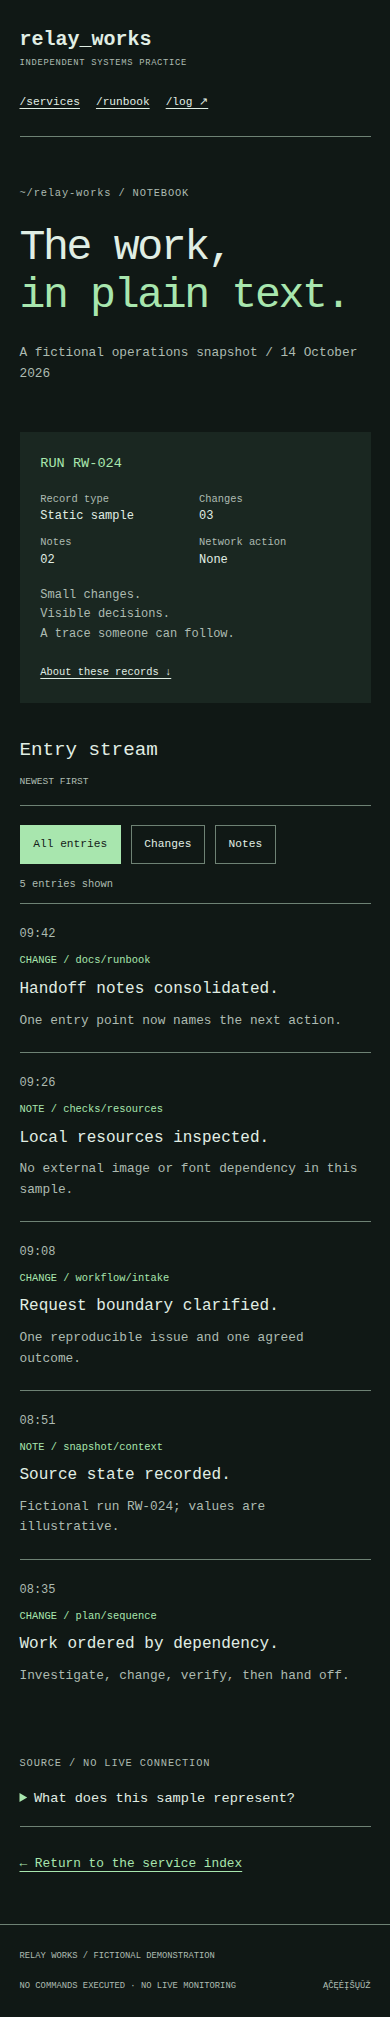
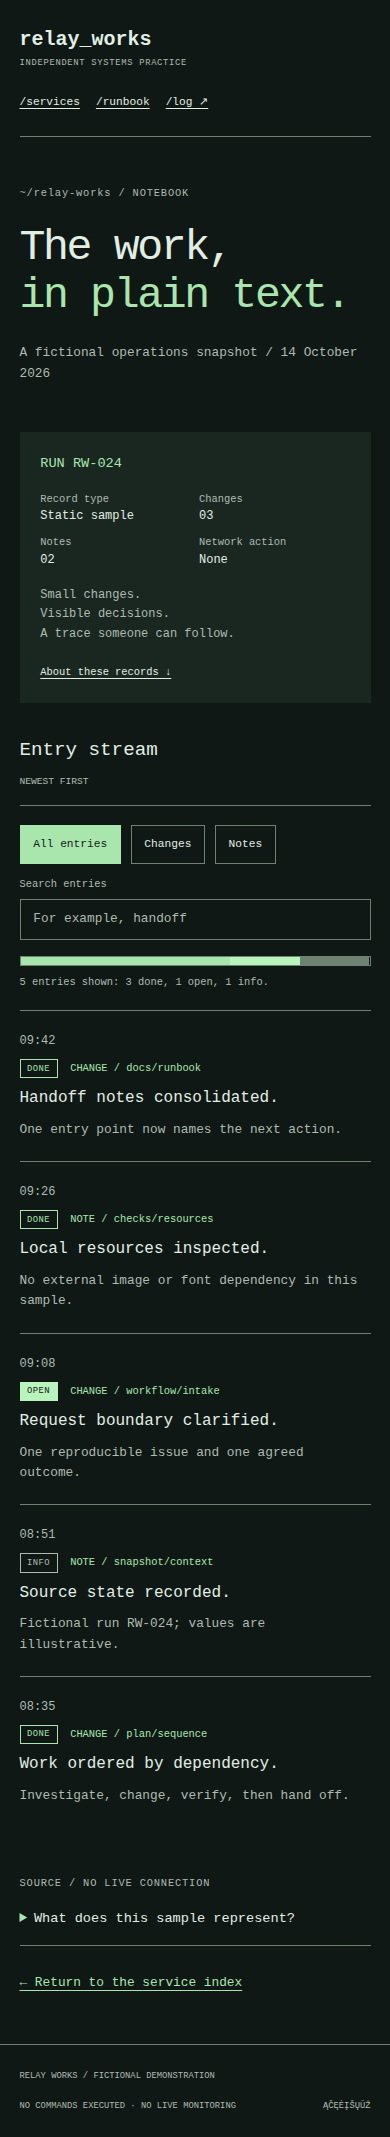
[S46] Pertvarka: Terminal Utility (#93)
* feat(S46): local log search, statuses and status bar for terminal-utility

Claude-Session: https://claude.ai/code/session_01UNVqEgRscSKB9PdVUupPsp

* chore: regenerate canonical previews for terminal-utility

* fix(S46): readable OPEN status label on focus background

Claude-Session: https://claude.ai/code/session_01UNVqEgRscSKB9PdVUupPsp

* chore: regenerate canonical previews for terminal-utility

* docs(S46): evidence for terminal-utility redesign

Claude-Session: https://claude.ai/code/session_01UNVqEgRscSKB9PdVUupPsp

---------

diff --git a/styles/terminal-utility/reference/style.css b/styles/terminal-utility/reference/style.css
@@ -1,1 +1,1 @@
-*{box-sizing:border-box}html{scroll-behavior:smooth}body{margin:0;background:var(--color-background);color:var(--color-text);font:1rem/1.6 var(--font-body)}a{color:inherit;text-underline-offset:.3em;transition:color var(--motion-duration-short) var(--motion-easing-standard)}a:hover{color:var(--color-accent)}:focus-visible{outline:3px solid var(--color-focus);outline-offset:5px}.skip{position:absolute;top:0;left:0;transform:translateY(-200%);background:var(--color-background);padding:1rem;z-index:10}.skip:focus{transform:none}h1,h2,h3,p{margin:0}h1{font-size:clamp(2.5rem,4.8vw,4.5rem);line-height:1.12;letter-spacing:-.055em;font-weight:400}h1 span{color:var(--color-accent)}h2{font-size:1.2rem;font-weight:400}h3{font-size:1rem;font-weight:400}.mast{max-width:1200px;padding:2rem 2rem 1.5rem;margin:auto;display:flex;justify-content:space-between;gap:2rem;border-bottom:1px solid var(--color-border)}.brand{font-weight:700;text-decoration:none;font-size:1.25rem}.brand span{display:block;font-size:.55rem;letter-spacing:.08em;font-weight:400;color:var(--color-muted)}nav{display:flex;gap:1.5rem;font-size:.75rem;align-items:center}main{max-width:1136px;margin:auto}.intro{padding:4rem 0 3rem}.label{font-size:.65rem;letter-spacing:.08em;color:var(--color-muted)}.intro h1{margin:1.5rem 0}.lead{color:var(--color-muted)}.output{border-left:3px solid var(--color-accent);padding:1.3rem 1.5rem;margin-top:2rem;background:var(--color-surface);max-width:760px;font-size:.85rem}.output>span{color:var(--color-accent)}.output p{margin:.6rem 0}.output small{font-size:.65rem;color:var(--color-muted)}.section-head{display:flex;justify-content:space-between;gap:1rem;padding:1rem 0;border-bottom:1px solid var(--color-border);align-items:baseline}.section-head>span{font-size:.6rem;color:var(--color-muted)}details{border-bottom:1px solid var(--color-border)}summary{cursor:pointer}summary::marker{color:var(--color-accent)}.commands summary{padding:1.2rem .5rem;display:grid;grid-template-columns:1fr 1.5fr auto;gap:1.5rem;font-size:.9rem}.commands summary strong{font-weight:400;color:var(--color-accent)}.commands summary>span{color:var(--color-muted)}summary b{font-weight:400}.command-body{padding:0 2rem 1.5rem;font-size:.85rem;max-width:800px}.command-body p{margin:.6rem 0}.command-body p>span{display:inline-block;width:5rem;color:var(--color-accent);font-size:.7rem}.note{color:var(--color-muted);font-size:.75rem}.runbook{padding:3rem 0}.runbook>h2{font-size:1.8rem;margin:1rem 0 2rem}.runbook ol{padding:0;margin:0;list-style:none;display:grid;grid-template-columns:repeat(3,1fr);gap:2rem}.runbook li{border-top:1px solid var(--color-border);padding-top:1rem}.runbook li>span{color:var(--color-accent);font-size:.75rem}.runbook h3{margin:.8rem 0}.runbook li>p{color:var(--color-muted);font-size:.8rem;max-width:30ch}.boundary{padding:2.5rem 0 3rem;border-top:1px solid var(--color-border);display:grid;grid-template-columns:1fr 2fr;gap:2rem}.boundary h2{font-size:2rem;line-height:1.25}.boundary div>p{margin:1.2rem 0;color:var(--color-muted);max-width:58ch;font-size:.85rem}.boundary a{font-size:.8rem;color:var(--color-accent)}footer{border-top:1px solid var(--color-border);padding:1.5rem 3vw;display:flex;justify-content:space-between;gap:1rem;flex-wrap:wrap;font-size:.55rem;color:var(--color-muted)}.log-title{padding:3rem 0}.log-title h1{margin:1.4rem 0}.log-title>p:last-child{font-size:.8rem;color:var(--color-muted)}.log-layout{display:grid;grid-template-columns:240px 1fr;gap:3rem}.log-layout aside{background:var(--color-surface);padding:1.3rem;height:max-content;font-size:.75rem}.log-layout aside h2{font-size:.85rem;color:var(--color-accent)}dl{margin:1.5rem 0}dl>div{margin:.8rem 0}dt{color:var(--color-muted);font-size:.65rem}dd{margin:0}.log-layout aside>p{margin-bottom:1.2rem;color:var(--color-muted)}.log-layout aside a{font-size:.65rem}.log .section-head{padding-top:0}.filters{display:flex;gap:.6rem;flex-wrap:wrap;margin:1.2rem 0 .7rem}button{font:inherit;font-size:.7rem;color:var(--color-text);background:var(--color-background);border:1px solid var(--color-border);padding:.6rem .8rem;cursor:pointer;transition:color var(--motion-duration-short) var(--motion-easing-standard)}button[aria-pressed=true]{color:var(--color-on-accent);background:var(--color-accent);border-color:var(--color-accent)}#entry-count{font-size:.65rem;color:var(--color-muted);margin-bottom:.7rem}.event{display:grid;grid-template-columns:4rem 1fr;gap:1.5rem;padding:1.3rem 0;border-top:1px solid var(--color-border)}.event[hidden]{display:none}.event time{color:var(--color-muted);font-size:.75rem}.event-kind{font-size:.65rem;color:var(--color-accent);overflow-wrap:anywhere}.event h3{margin:.5rem 0}.event div>p:last-child{font-size:.8rem;color:var(--color-muted)}.data-note{margin:3rem 0}.data-note details{margin:1rem 0 1.5rem;padding-bottom:1rem;font-size:.85rem}.data-note details p{color:var(--color-muted);max-width:70ch;margin-top:1rem}.data-note>a{font-size:.8rem;color:var(--color-accent)}@media(max-width:1200px){main{margin:0 5vw}.mast{margin:0 5vw;padding-left:0;padding-right:0}}@media(max-width:800px){.log-layout{grid-template-columns:190px 1fr;gap:2rem}.event{gap:1rem}.runbook ol{gap:1rem}.commands summary{grid-template-columns:1fr 1fr auto;gap:1rem}}@media(max-width:600px){.mast{display:block;padding-top:1.5rem}nav{margin-top:1.5rem;gap:1rem;flex-wrap:wrap;font-size:.7rem}.intro{padding-top:3rem}h1{font-size:2.8rem}.intro .lead{font-size:.85rem}.lead br{display:none}.section-head{display:block}.section-head>span{display:block;margin-top:.5rem}.commands summary{grid-template-columns:1fr auto;padding:1rem 0;gap:.5rem}.commands summary>span{grid-row:2;grid-column:1/-1;font-size:.8rem}.commands summary b{grid-column:2;grid-row:1}.command-body{padding:0 0 1rem;font-size:.8rem}.command-body p>span{display:block}.runbook ol{display:block}.runbook li{margin-top:1.5rem}.runbook li>p{max-width:none}.boundary{display:block}.boundary h2{margin-top:1.5rem;font-size:1.8rem}.log-layout{display:block}.log-layout aside{margin-bottom:2rem}.log-layout dl{display:grid;grid-template-columns:1fr 1fr;gap:.5rem;margin:1rem 0}.log-layout dl>div{margin:0}.log-title h1{font-size:2.7rem}.event{display:block}.event time{display:block;margin-bottom:.5rem}.log .section-head{padding-top:0}.event h3{font-size:1rem}footer{padding:1.5rem 5vw}}@media(prefers-reduced-motion:reduce){html{scroll-behavior:auto}*,*::before,*::after{transition:none!important;animation:none!important}}
+*{box-sizing:border-box}html{scroll-behavior:smooth}body{margin:0;background:var(--color-background);color:var(--color-text);font:1rem/1.6 var(--font-body)}a{color:inherit;text-underline-offset:.3em;transition:color var(--motion-duration-short) var(--motion-easing-standard)}a:hover{color:var(--color-accent)}:focus-visible{outline:3px solid var(--color-focus);outline-offset:5px}.skip{position:absolute;top:0;left:0;transform:translateY(-200%);background:var(--color-background);padding:1rem;z-index:10}.skip:focus{transform:none}h1,h2,h3,p{margin:0}h1{font-size:clamp(2.5rem,4.8vw,4.5rem);line-height:1.12;letter-spacing:-.055em;font-weight:400}h1 span{color:var(--color-accent)}h2{font-size:1.2rem;font-weight:400}h3{font-size:1rem;font-weight:400}.mast{max-width:1200px;padding:2rem 2rem 1.5rem;margin:auto;display:flex;justify-content:space-between;gap:2rem;border-bottom:1px solid var(--color-border)}.brand{font-weight:700;text-decoration:none;font-size:1.25rem}.brand span{display:block;font-size:.55rem;letter-spacing:.08em;font-weight:400;color:var(--color-muted)}nav{display:flex;gap:1.5rem;font-size:.75rem;align-items:center}main{max-width:1136px;margin:auto}.intro{padding:4rem 0 3rem}.label{font-size:.65rem;letter-spacing:.08em;color:var(--color-muted)}.intro h1{margin:1.5rem 0}.lead{color:var(--color-muted)}.output{border-left:3px solid var(--color-accent);padding:1.3rem 1.5rem;margin-top:2rem;background:var(--color-surface);max-width:760px;font-size:.85rem}.output>span{color:var(--color-accent)}.output p{margin:.6rem 0}.output small{font-size:.65rem;color:var(--color-muted)}.section-head{display:flex;justify-content:space-between;gap:1rem;padding:1rem 0;border-bottom:1px solid var(--color-border);align-items:baseline}.section-head>span{font-size:.6rem;color:var(--color-muted)}details{border-bottom:1px solid var(--color-border)}summary{cursor:pointer}summary::marker{color:var(--color-accent)}.commands summary{padding:1.2rem .5rem;display:grid;grid-template-columns:1fr 1.5fr auto;gap:1.5rem;font-size:.9rem}.commands summary strong{font-weight:400;color:var(--color-accent)}.commands summary>span{color:var(--color-muted)}summary b{font-weight:400}.command-body{padding:0 2rem 1.5rem;font-size:.85rem;max-width:800px}.command-body p{margin:.6rem 0}.command-body p>span{display:inline-block;width:5rem;color:var(--color-accent);font-size:.7rem}.note{color:var(--color-muted);font-size:.75rem}.runbook{padding:3rem 0}.runbook>h2{font-size:1.8rem;margin:1rem 0 2rem}.runbook ol{padding:0;margin:0;list-style:none;display:grid;grid-template-columns:repeat(3,1fr);gap:2rem}.runbook li{border-top:1px solid var(--color-border);padding-top:1rem}.runbook li>span{color:var(--color-accent);font-size:.75rem}.runbook h3{margin:.8rem 0}.runbook li>p{color:var(--color-muted);font-size:.8rem;max-width:30ch}.boundary{padding:2.5rem 0 3rem;border-top:1px solid var(--color-border);display:grid;grid-template-columns:1fr 2fr;gap:2rem}.boundary h2{font-size:2rem;line-height:1.25}.boundary div>p{margin:1.2rem 0;color:var(--color-muted);max-width:58ch;font-size:.85rem}.boundary a{font-size:.8rem;color:var(--color-accent)}footer{border-top:1px solid var(--color-border);padding:1.5rem 3vw;display:flex;justify-content:space-between;gap:1rem;flex-wrap:wrap;font-size:.55rem;color:var(--color-muted)}.log-title{padding:3rem 0}.log-title h1{margin:1.4rem 0}.log-title>p:last-child{font-size:.8rem;color:var(--color-muted)}.log-layout{display:grid;grid-template-columns:240px 1fr;gap:3rem}.log-layout aside{background:var(--color-surface);padding:1.3rem;height:max-content;font-size:.75rem}.log-layout aside h2{font-size:.85rem;color:var(--color-accent)}dl{margin:1.5rem 0}dl>div{margin:.8rem 0}dt{color:var(--color-muted);font-size:.65rem}dd{margin:0}.log-layout aside>p{margin-bottom:1.2rem;color:var(--color-muted)}.log-layout aside a{font-size:.65rem}.log .section-head{padding-top:0}.filters{display:flex;gap:.6rem;flex-wrap:wrap;margin:1.2rem 0 .7rem}button{font:inherit;font-size:.7rem;color:var(--color-text);background:var(--color-background);border:1px solid var(--color-border);padding:.6rem .8rem;cursor:pointer;transition:color var(--motion-duration-short) var(--motion-easing-standard)}button[aria-pressed=true]{color:var(--color-on-accent);background:var(--color-accent);border-color:var(--color-accent)}#entry-count{font-size:.65rem;color:var(--color-muted);margin-bottom:.7rem}.sr-only{position:absolute;width:1px;height:1px;overflow:hidden;clip:rect(0 0 0 0);white-space:nowrap}.tools{display:grid;gap:.4rem;margin:.6rem 0 1rem}.tools label{font-size:.65rem;color:var(--color-muted)}input[type=search]{font:inherit;font-size:.8rem;color:var(--color-text);background:var(--color-background);border:1px solid var(--color-border);padding:.6rem .8rem;max-width:360px;width:100%}input::placeholder{color:var(--color-muted);opacity:1}.status-panel{margin-bottom:1.2rem}.status-bar{display:flex;height:10px;border:1px solid var(--color-border)}.seg{display:block;width:var(--share);height:100%;transition:width var(--motion-duration-short) var(--motion-easing-standard)}.seg-done{background:var(--color-accent)}.seg-open{background:var(--color-focus)}.seg-info{background:var(--color-border)}#status-summary{font-size:.65rem;color:var(--color-muted);margin-top:.5rem}.no-match{font-size:.8rem;color:var(--color-muted);padding:1rem 0}.no-match[hidden]{display:none}.status{display:inline-block;font-size:.55rem;letter-spacing:.06em;padding:.1rem .4rem;border:1px solid currentColor;margin-right:.4rem}.status-done{color:var(--color-accent)}.status-open{color:var(--color-background);background:var(--color-focus);border-color:var(--color-focus)}.status-info{color:var(--color-muted)}.log-link{display:inline-block;margin-top:.8rem;font-size:.75rem;color:var(--color-accent)}.event{display:grid;grid-template-columns:4rem 1fr;gap:1.5rem;padding:1.3rem 0;border-top:1px solid var(--color-border)}.event[hidden]{display:none}.event time{color:var(--color-muted);font-size:.75rem}.event-kind{font-size:.65rem;color:var(--color-accent);overflow-wrap:anywhere}.event h3{margin:.5rem 0}.event div>p:last-child{font-size:.8rem;color:var(--color-muted)}.data-note{margin:3rem 0}.data-note details{margin:1rem 0 1.5rem;padding-bottom:1rem;font-size:.85rem}.data-note details p{color:var(--color-muted);max-width:70ch;margin-top:1rem}.data-note>a{font-size:.8rem;color:var(--color-accent)}@media(max-width:1200px){main{margin:0 5vw}.mast{margin:0 5vw;padding-left:0;padding-right:0}}@media(max-width:800px){.log-layout{grid-template-columns:190px 1fr;gap:2rem}.event{gap:1rem}.runbook ol{gap:1rem}.commands summary{grid-template-columns:1fr 1fr auto;gap:1rem}}@media(max-width:600px){.mast{display:block;padding-top:1.5rem}nav{margin-top:1.5rem;gap:1rem;flex-wrap:wrap;font-size:.7rem}.intro{padding-top:3rem}h1{font-size:2.8rem}.intro .lead{font-size:.85rem}.lead br{display:none}.section-head{display:block}.section-head>span{display:block;margin-top:.5rem}.commands summary{grid-template-columns:1fr auto;padding:1rem 0;gap:.5rem}.commands summary>span{grid-row:2;grid-column:1/-1;font-size:.8rem}.commands summary b{grid-column:2;grid-row:1}.command-body{padding:0 0 1rem;font-size:.8rem}.command-body p>span{display:block}.runbook ol{display:block}.runbook li{margin-top:1.5rem}.runbook li>p{max-width:none}.boundary{display:block}.boundary h2{margin-top:1.5rem;font-size:1.8rem}.log-layout{display:block}.log-layout aside{margin-bottom:2rem}.log-layout dl{display:grid;grid-template-columns:1fr 1fr;gap:.5rem;margin:1rem 0}.log-layout dl>div{margin:0}.log-title h1{font-size:2.7rem}.event{display:block}.event time{display:block;margin-bottom:.5rem}.log .section-head{padding-top:0}.event h3{font-size:1rem}footer{padding:1.5rem 5vw}}@media(prefers-reduced-motion:reduce){html{scroll-behavior:auto}*,*::before,*::after{transition:none!important;animation:none!important}}

diff --git a/styles/terminal-utility/reference/alternate.html b/styles/terminal-utility/reference/alternate.html
@@ -1,2 +1,2 @@
 <!doctype html>
-<html lang="en"><head><meta charset="utf-8"><meta name="viewport" content="width=device-width,initial-scale=1"><meta name="description" content="Original fictional demonstration for Web Style Atlas."><title>Operations notebook — Relay Works</title><link rel="stylesheet" href="tokens.css"><link rel="stylesheet" href="style.css"></head><body><a class="skip" href="#main">Skip to content</a><header class="mast"><a class="brand" href="index.html">relay_works<span>INDEPENDENT SYSTEMS PRACTICE</span></a><nav aria-label="Main"><a href="index.html#commands">/services</a><a href="index.html#runbook">/runbook</a><a href="alternate.html">/log ↗</a></nav></header><main id="main" class="notebook"><header class="log-title"><p class="label">~/relay-works / NOTEBOOK</p><h1>The work,<br><span>in plain text.</span></h1><p>A fictional operations snapshot / 14 October 2026</p></header><div class="log-layout"><aside aria-label="Run summary"><h2>RUN RW-024</h2><dl><div><dt>Record type</dt><dd>Static sample</dd></div><div><dt>Changes</dt><dd>03</dd></div><div><dt>Notes</dt><dd>02</dd></div><div><dt>Network action</dt><dd>None</dd></div></dl><p>Small changes.<br>Visible decisions.<br>A trace someone can follow.</p><a href="#data-note">About these records ↓</a></aside><section class="log" aria-labelledby="log-heading"><div class="section-head"><h2 id="log-heading">Entry stream</h2><span>NEWEST FIRST</span></div><div class="filters" role="group" aria-label="Entry type"><button type="button" data-filter="all" aria-pressed="true">All entries</button><button type="button" data-filter="change" aria-pressed="false">Changes</button><button type="button" data-filter="note" aria-pressed="false">Notes</button></div><p id="entry-count" aria-live="polite">5 entries shown</p><article class="event" data-kind="change"><time>09:42</time><div><p class="event-kind">CHANGE / docs/runbook</p><h3>Handoff notes consolidated.</h3><p>One entry point now names the next action.</p></div></article><article class="event" data-kind="note"><time>09:26</time><div><p class="event-kind">NOTE / checks/resources</p><h3>Local resources inspected.</h3><p>No external image or font dependency in this sample.</p></div></article><article class="event" data-kind="change"><time>09:08</time><div><p class="event-kind">CHANGE / workflow/intake</p><h3>Request boundary clarified.</h3><p>One reproducible issue and one agreed outcome.</p></div></article><article class="event" data-kind="note"><time>08:51</time><div><p class="event-kind">NOTE / snapshot/context</p><h3>Source state recorded.</h3><p>Fictional run RW-024; values are illustrative.</p></div></article><article class="event" data-kind="change"><time>08:35</time><div><p class="event-kind">CHANGE / plan/sequence</p><h3>Work ordered by dependency.</h3><p>Investigate, change, verify, then hand off.</p></div></article></section></div><section id="data-note" class="data-note"><p class="label">SOURCE / NO LIVE CONNECTION</p><details><summary>What does this sample represent?</summary><p>Five original fictional entries demonstrate a chronological information layout. Filtering changes only the local view. Timestamps, run labels and counts are examples, not live service telemetry.</p></details><a href="index.html#commands">← Return to the service index</a></section></main><footer><span>RELAY WORKS / FICTIONAL DEMONSTRATION</span><span>NO COMMANDS EXECUTED · NO LIVE MONITORING</span><span lang="lt">ĄČĘĖĮŠŲŪŽ</span></footer><script src="log.js"></script></body></html>
+<html lang="en"><head><meta charset="utf-8"><meta name="viewport" content="width=device-width,initial-scale=1"><meta name="description" content="Original fictional demonstration for Web Style Atlas."><title>Operations notebook — Relay Works</title><link rel="stylesheet" href="tokens.css"><link rel="stylesheet" href="style.css"></head><body><a class="skip" href="#main">Skip to content</a><header class="mast"><a class="brand" href="index.html">relay_works<span>INDEPENDENT SYSTEMS PRACTICE</span></a><nav aria-label="Main"><a href="index.html#commands">/services</a><a href="index.html#runbook">/runbook</a><a href="alternate.html">/log ↗</a></nav></header><main id="main" class="notebook"><header class="log-title"><p class="label">~/relay-works / NOTEBOOK</p><h1>The work,<br><span>in plain text.</span></h1><p>A fictional operations snapshot / 14 October 2026</p></header><div class="log-layout"><aside aria-label="Run summary"><h2>RUN RW-024</h2><dl><div><dt>Record type</dt><dd>Static sample</dd></div><div><dt>Changes</dt><dd>03</dd></div><div><dt>Notes</dt><dd>02</dd></div><div><dt>Network action</dt><dd>None</dd></div></dl><p>Small changes.<br>Visible decisions.<br>A trace someone can follow.</p><a href="#data-note">About these records ↓</a></aside><section class="log" aria-labelledby="log-heading"><div class="section-head"><h2 id="log-heading">Entry stream</h2><span>NEWEST FIRST</span></div><div class="filters" role="group" aria-label="Entry type"><button type="button" data-filter="all" aria-pressed="true">All entries</button><button type="button" data-filter="change" aria-pressed="false">Changes</button><button type="button" data-filter="note" aria-pressed="false">Notes</button></div><div class="tools"><label for="entry-search">Search entries</label><input id="entry-search" type="search" placeholder="For example, handoff" autocomplete="off"></div><div class="status-panel"><div class="status-bar" aria-hidden="true"><span class="seg seg-done" style="--share:60%"></span><span class="seg seg-open" style="--share:20%"></span><span class="seg seg-info" style="--share:20%"></span></div><p id="status-summary" aria-live="polite">5 entries shown: 3 done, 1 open, 1 info.</p></div><p id="entry-count" class="sr-only" aria-live="polite">5 entries shown</p><p id="no-match" class="no-match" hidden>No entry matches this search. Clear the text or choose All entries.</p><article class="event" data-kind="change" data-status="done"><time datetime="2026-10-14T09:42">09:42</time><div><p class="event-kind"><span class="status status-done">DONE</span> CHANGE / docs/runbook</p><h3>Handoff notes consolidated.</h3><p>One entry point now names the next action.</p></div></article><article class="event" data-kind="note" data-status="done"><time datetime="2026-10-14T09:26">09:26</time><div><p class="event-kind"><span class="status status-done">DONE</span> NOTE / checks/resources</p><h3>Local resources inspected.</h3><p>No external image or font dependency in this sample.</p></div></article><article class="event" data-kind="change" data-status="open"><time datetime="2026-10-14T09:08">09:08</time><div><p class="event-kind"><span class="status status-open">OPEN</span> CHANGE / workflow/intake</p><h3>Request boundary clarified.</h3><p>One reproducible issue and one agreed outcome.</p></div></article><article class="event" data-kind="note" data-status="info"><time datetime="2026-10-14T08:51">08:51</time><div><p class="event-kind"><span class="status status-info">INFO</span> NOTE / snapshot/context</p><h3>Source state recorded.</h3><p>Fictional run RW-024; values are illustrative.</p></div></article><article class="event" data-kind="change" data-status="done"><time datetime="2026-10-14T08:35">08:35</time><div><p class="event-kind"><span class="status status-done">DONE</span> CHANGE / plan/sequence</p><h3>Work ordered by dependency.</h3><p>Investigate, change, verify, then hand off.</p></div></article></section></div><section id="data-note" class="data-note"><p class="label">SOURCE / NO LIVE CONNECTION</p><details><summary>What does this sample represent?</summary><p>Five original fictional entries demonstrate a chronological information layout. Filtering changes only the local view. Timestamps, run labels and counts are examples, not live service telemetry.</p></details><a href="index.html#commands">← Return to the service index</a></section></main><footer><span>RELAY WORKS / FICTIONAL DEMONSTRATION</span><span>NO COMMANDS EXECUTED · NO LIVE MONITORING</span><span lang="lt">ĄČĘĖĮŠŲŪŽ</span></footer><script src="log.js"></script></body></html>

diff --git a/styles/terminal-utility/reference/index.html b/styles/terminal-utility/reference/index.html
@@ -1,2 +1,2 @@
 <!doctype html>
-<html lang="en"><head><meta charset="utf-8"><meta name="viewport" content="width=device-width,initial-scale=1"><meta name="description" content="Original fictional demonstration for Web Style Atlas."><title>Relay Works — Terminal Utility</title><link rel="stylesheet" href="tokens.css"><link rel="stylesheet" href="style.css"></head><body><a class="skip" href="#main">Skip to content</a><header class="mast"><a class="brand" href="index.html">relay_works<span>INDEPENDENT SYSTEMS PRACTICE</span></a><nav aria-label="Main"><a href="index.html#commands">/services</a><a href="index.html#runbook">/runbook</a><a href="alternate.html">/log ↗</a></nav></header><main id="main"><section class="intro"><p class="label">~/relay-works &nbsp; / &nbsp; SERVICES</p><h1>Less noise.<br>More <span>useful output.</span></h1><p class="lead">We inspect the seams between your tools,<br>repair what gets in the way, and leave a clear record.</p><div class="output"><span>$ relay --purpose</span><p>Make small systems easier to understand and maintain.</p><small>Illustrative notation. This page is not a shell.</small></div></section><section id="commands" class="commands"><div class="section-head"><h2>Available services</h2><span>03 COMMANDS / OPEN TO INSPECT</span></div><details><summary><strong>01 &nbsp; audit</strong><span>Find the actual bottleneck.</span><b aria-hidden="true">+</b></summary><div class="command-body"><p><span>INPUT</span> A workflow, its users, and the point where it slows down.</p><p><span>OUTPUT</span> A short map of the system, evidence, and one useful next move.</p><p class="note">Bounded investigation. No automatic access to production systems.</p></div></details><details><summary><strong>02 &nbsp; repair</strong><span>Fix one clear failure.</span><b aria-hidden="true">+</b></summary><div class="command-body"><p><span>INPUT</span> A reproducible failure and an agreed change boundary.</p><p><span>OUTPUT</span> A narrow implementation, meaningful checks, and a reviewable change.</p></div></details><details><summary><strong>03 &nbsp; handoff</strong><span>Leave a system someone can own.</span><b aria-hidden="true">+</b></summary><div class="command-body"><p><span>INPUT</span> The current implementation, its decisions and known limits.</p><p><span>OUTPUT</span> A practical runbook and a small, ordered next-action list.</p></div></details></section><section id="runbook" class="runbook"><p class="label">DELIVERY / A SMALL LOOP</p><h2>Observe. Change. Verify.</h2><ol><li><span>[01]</span><h3>Read the real state</h3><p>Start from current evidence, not an old assumption.</p></li><li><span>[02]</span><h3>Make one useful change</h3><p>Keep the scope small enough to understand and review.</p></li><li><span>[03]</span><h3>Leave a usable record</h3><p>Explain the outcome, its checks and the next action.</p></li></ol></section><section class="boundary"><p class="label">SCOPE / BEFORE WE START</p><div><h2>Clear boundaries.<br>Predictable work.</h2><p>This fictional practice illustrates a technical service index. Links and disclosures work; no service request is sent.</p><a href="alternate.html">Inspect the sample operations log →</a></div></section></main><footer><span>RELAY WORKS / FICTIONAL DEMONSTRATION</span><span>NO COMMANDS EXECUTED · NO LIVE MONITORING</span><span lang="lt">ĄČĘĖĮŠŲŪŽ</span></footer></body></html>
+<html lang="en"><head><meta charset="utf-8"><meta name="viewport" content="width=device-width,initial-scale=1"><meta name="description" content="Original fictional demonstration for Web Style Atlas."><title>Relay Works — Terminal Utility</title><link rel="stylesheet" href="tokens.css"><link rel="stylesheet" href="style.css"></head><body><a class="skip" href="#main">Skip to content</a><header class="mast"><a class="brand" href="index.html">relay_works<span>INDEPENDENT SYSTEMS PRACTICE</span></a><nav aria-label="Main"><a href="index.html#commands">/services</a><a href="index.html#runbook">/runbook</a><a href="alternate.html">/log ↗</a></nav></header><main id="main"><section class="intro"><p class="label">~/relay-works &nbsp; / &nbsp; SERVICES</p><h1>Less noise.<br>More <span>useful output.</span></h1><p class="lead">We inspect the seams between your tools,<br>repair what gets in the way, and leave a clear record.</p><div class="output"><span>$ relay --purpose</span><p>Make small systems easier to understand and maintain.</p><small>Illustrative notation. This page is not a shell.</small></div></section><section id="commands" class="commands"><div class="section-head"><h2>Available services</h2><span>03 COMMANDS / OPEN TO INSPECT</span></div><details><summary><strong>01 &nbsp; audit</strong><span>Find the actual bottleneck.</span><b aria-hidden="true">+</b></summary><div class="command-body"><p><span>INPUT</span> A workflow, its users, and the point where it slows down.</p><p><span>OUTPUT</span> A short map of the system, evidence, and one useful next move.</p><p class="note">Bounded investigation. No automatic access to production systems.</p><a class="log-link" href="alternate.html?q=source">Find related log entries →</a></div></details><details><summary><strong>02 &nbsp; repair</strong><span>Fix one clear failure.</span><b aria-hidden="true">+</b></summary><div class="command-body"><p><span>INPUT</span> A reproducible failure and an agreed change boundary.</p><p><span>OUTPUT</span> A narrow implementation, meaningful checks, and a reviewable change.</p><a class="log-link" href="alternate.html?q=checks">Find related log entries →</a></div></details><details><summary><strong>03 &nbsp; handoff</strong><span>Leave a system someone can own.</span><b aria-hidden="true">+</b></summary><div class="command-body"><p><span>INPUT</span> The current implementation, its decisions and known limits.</p><p><span>OUTPUT</span> A practical runbook and a small, ordered next-action list.</p><a class="log-link" href="alternate.html?q=handoff">Find related log entries →</a></div></details></section><section id="runbook" class="runbook"><p class="label">DELIVERY / A SMALL LOOP</p><h2>Observe. Change. Verify.</h2><ol><li><span>[01]</span><h3>Read the real state</h3><p>Start from current evidence, not an old assumption.</p></li><li><span>[02]</span><h3>Make one useful change</h3><p>Keep the scope small enough to understand and review.</p></li><li><span>[03]</span><h3>Leave a usable record</h3><p>Explain the outcome, its checks and the next action.</p></li></ol></section><section class="boundary"><p class="label">SCOPE / BEFORE WE START</p><div><h2>Clear boundaries.<br>Predictable work.</h2><p>This fictional practice illustrates a technical service index. Links and disclosures work; no service request is sent.</p><a href="alternate.html">Inspect the sample operations log →</a></div></section></main><footer><span>RELAY WORKS / FICTIONAL DEMONSTRATION</span><span>NO COMMANDS EXECUTED · NO LIVE MONITORING</span><span lang="lt">ĄČĘĖĮŠŲŪŽ</span></footer></body></html>

diff --git a/styles/terminal-utility/reference/log.js b/styles/terminal-utility/reference/log.js
@@ -1,1 +1,1 @@
-const buttons=[...document.querySelectorAll('[data-filter]')];const entries=[...document.querySelectorAll('[data-kind]')];for(const button of buttons)button.addEventListener('click',()=>{const type=button.dataset.filter;let count=0;for(const entry of entries){entry.hidden=type!=='all'&&entry.dataset.kind!==type;if(!entry.hidden)count++;}for(const control of buttons)control.setAttribute('aria-pressed',String(control===button));document.getElementById('entry-count').textContent=`${count} entries shown`;});
+const buttons=[...document.querySelectorAll('[data-filter]')];const entries=[...document.querySelectorAll('[data-kind]')];const search=document.getElementById('entry-search');const summary=document.getElementById('status-summary');const countEl=document.getElementById('entry-count');const noMatch=document.getElementById('no-match');const segs={done:document.querySelector('.seg-done'),open:document.querySelector('.seg-open'),info:document.querySelector('.seg-info')};let kind='all';function apply(){const query=search.value.trim().toLowerCase();const counts={done:0,open:0,info:0};let shown=0;for(const entry of entries){const kindOk=kind==='all'||entry.dataset.kind===kind;const textOk=!query||entry.textContent.toLowerCase().includes(query);entry.hidden=!(kindOk&&textOk);if(!entry.hidden){shown++;counts[entry.dataset.status]++;}}const total=shown||1;for(const key of Object.keys(segs))segs[key].style.setProperty('--share',(counts[key]/total*100)+'%');const text=`${shown} ${shown===1?'entry':'entries'} shown: ${counts.done} done, ${counts.open} open, ${counts.info} info.`;summary.textContent=text;countEl.textContent=text;noMatch.hidden=shown!==0;}for(const button of buttons)button.addEventListener('click',()=>{kind=button.dataset.filter;for(const control of buttons)control.setAttribute('aria-pressed',String(control===button));apply();});search.addEventListener('input',apply);try{const q=new URLSearchParams(location.search).get('q');if(q)search.value=q;}catch(e){}apply();

diff --git a/docs/evidence/S46.md b/docs/evidence/S46.md
@@ -1,0 +1,68 @@
+# S46 — įrodymai: Terminal Utility (pertvarka)
+
+Autorius: Claude Haiku 5.5 / session-S46. Šaka `task/s46-terminal-utility`.
+
+## Kas pakeista
+
+- Žurnalo puslapis (`reference/alternate.html`, `log.js`): vietinė paieška (`Search entries`) veikia kartu su „All entries / Changes / Notes“ filtrais. Rezultatų skaičius ir tekstinė santrauka atsinaujina kiekvienam pakeitimui. Nėra fiktyvaus backend.
+- Chronologinis sąrašas: kiekvienas įrašas turi tikrą `<time datetime>` žymę, būseną (DONE, OPEN, INFO) su tekstu ir tipo žymę (CHANGE / NOTE).
+- Vizualinis taškas: būsenų juosta (`status-bar`) rodo matomų įrašų pasiskirstymą; ji paskaičiuojama iš rodomų įrašų ir turi tekstinę santrauką.
+- Index puslapis (`reference/index.html`): kiekvienos paslaugos skiltyje yra nuoroda „Find related log entries →“, kuri atidaro žurnalą su užpildyta paieška (`?q=`). Taip disclosure nebėra statinis sąrašas be veiksmo.
+- Ištaisytas defektas, rastas peržiūroje: OPEN žymė buvo nematoma (tekstas ir fonas buvo tos pačios šviesos spalvos). Pataisyta `.status-open` spalva; kanoninis PNG perregeneruotas (run `39824366840`).
+- `style.md` ir `layouts.json` atnaujinti pagal paiešką, būsenas ir nuorodas.
+- Kiti stiliai nepakeisti.
+
+## Komandos ir rezultatai
+
+| Komanda | Rezultatas |
+|---|---|
+| `npm run validate` | PASS |
+| `npm run build -- --style terminal-utility` | PASS (39 stiliai, 3 išvestys, 39 ready) |
+| `node --test tests/*.test.mjs` | 87/87 PASS |
+| Kanoninis workflow `previews.yml` (ref `main`, branch `task/s46-terminal-utility`, style `terminal-utility`): `39822322652` (pirmas) ir `39824366840` (po OPEN pataisymo) | abu success; bot commit'ai `2ea25e5` ir `045d2f1`. Tame pačiame žingsnyje vykdomas `npm run check -- --style "$STYLE"` |
+
+## Keturių kanoninių PNG peržiūra
+
+Peržiūrėta `preview.png`, `preview-mobile.png`, `preview-alt.png`, `preview-alt-mobile.png` po paskutinio kanoninio paleidimo `045d2f1`.
+
+- A desktop: komandų sąrašas su trim paslaugų disclosure, veiksmo nuorodos kiekviename skyriuje; runbook trys stulpeliai; scope blokas.
+- A mobile: komandų aprašymai po pavadinimais, runbook ir scope eina viena eile, be horizontalaus slinkimo.
+- B desktop: žurnalas su paieškos lauku, būsenų juosta, DONE/OPEN/INFO žymėmis ir laiko žymėmis; šoninis RW-024 skydelis.
+- B mobile: žurnalo įrašai viena eile, būsenų žymės ir paieška skaitomi; OPEN žymė matoma.
+
+## Rubrika (`core/quality-rubric.md`)
+
+Artimiausias kaimynas, palygintas su tos pačios peržiūros PNG: `data-observatory` (šviesus popierius, porų taškų diagrama, rodiklių eilė, paieškos lentelė).
+
+| Kriterijus | Balas | Priežastis |
+|---|---|---|
+| Atpažinimas | 2 | Monospace visame puslapyje, `$ relay --purpose` komandinė linija, žalias akcentas, žurnalo žymės [01]/[02]/[03], DONE/OPEN/INFO būsenos – visi matomi A ir B. |
+| Skirtumas nuo kaimyno | 2 | Data-observatory: šviesus fonas, diagrama ir lentelė, overview/compare/method navigacija. Terminal: tamsus fonas, komandų disclosure ir chronologinis žurnalas, paslaugų/runbook/log navigacija. Trys skirtumai, įskaitant kompoziciją, navigaciją ir turinio ritmą. |
+| A/B skirtumas | 2 | A – paslaugų indeksas su disclosure ir runbook; B – žurnalas su paieška, filtrais, būsenų juosta ir šonine santrauka. Skirtinga kompozicija ir užduotis. |
+| Hierarchija | 2 | h1 su žaliu akcentu, label eilutės, komandų pavadinimai, žurnalo laiko žymės, būsenų žymės ir įrašų antraštės turi aiškius vaidmenis. |
+| Mobile | 2 | Paslaugos, runbook, scope ir žurnalo įrašai perstatyti sąmoningai; valdikliai ir paieška veikia 390 px plotyje. |
+| Adaptability | 2 | `style.md` nurodo, kaip pakeisti įrašus, išlaikyti būsenų žymes tekstu ir nenaudoti tikro komandų vykdymo. |
+
+**Iš viso 12/12**, be nulio; atpažinimas ir skirtumas nuo kaimyno – 2.
+
+Vertinimą atliko šios užduoties vykdytojas, ne nepriklausomas peržiūrėtojas.
+
+## Invariantai (3–5)
+
+1. Monospace ir tekstinė hierarchija be dekoratyvių efektų (scanlines, glow).
+2. Būsenos visada turi tekstinę žymę, ne vien spalvą.
+3. Paieška ir filtrai veikia tik lokaliai, su aiškiu rezultatų skaičiumi.
+4. Komandų disclosure atskleidžia įvestį ir išvestį; nėra įvesties lauko, kuris apsimestų vykdantis komandas.
+
+## Anti-pattern'ai (tiksliai 3)
+
+1. Vien dekoratyvus `$ relay --purpose` kodo blokas be funkcijos.
+2. Statinis komandų sąrašas, kuris nieko neatveria ir nieko nefiltruoja.
+3. Fiktyvios momentinės reikšmės, pateiktos kaip gyvas monitoringas.
+
+## Apribojimai
+
+- Paieška ir nuorodos veikia tik lokaliai; nėra tikro backend ar žurnalo šaltinio.
+- `$ relay --purpose` blokas išliko kaip dekoratyvus akcentas (anti-pattern 1 sumažintas, bet ne pašalintas).
+- Index PNG nerodo nuorodų „Find related log entries“, nes disclosure yra uždarytas; jų veikimas patikrintas tik kodo lygmenyje ir per log.js parametrą `?q=`.
+- Automatiniai patikrinimai nėra pilnas WCAG patikrinimas.

diff --git a/styles/terminal-utility/style.md b/styles/terminal-utility/style.md
@@ -11,7 +11,7 @@ density: "dense"
 image_dependency: "low"
 motion_level: "subtle"
 complexity: "low"
-signature: {"composition": "Dense command index in A; chronological log beside a summary rail in B.", "typography": "System monospace throughout, with explicit timestamp and command hierarchy.", "navigation": "Plain text section links, command disclosures and a separate log index.", "content_rhythm": "Short input/output explanations or chronological events with supporting panels.", "imagery": "No image dependency; original text, rules and status notation.", "color_and_material": "Dark green-black surfaces, pale text and restrained green accents.", "interaction": "Native service details and an actual local log-type filter with pressed state.", "motion": "Static output, no blinking cursor; brief transitions removed for reduced motion."}
+signature: {"composition": "Dense command index in A; chronological log beside a summary rail in B.", "typography": "System monospace throughout, with explicit timestamp and command hierarchy.", "navigation": "Plain text section links, command disclosures and a separate log index.", "content_rhythm": "Short input/output explanations or chronological events with supporting panels.", "imagery": "No image dependency; original text, rules and status notation.", "color_and_material": "Dark green-black surfaces, pale text and restrained green accents.", "interaction": "Native service details, a local log search and a filter with pressed state.", "motion": "Static output, no blinking cursor; brief transitions removed for reduced motion."}
 status: "ready"
 ---
 
@@ -35,11 +35,11 @@ A nearly black green ground holds pale readable text, a soft green accent and mu
 
 ## Layout A
 
-A compact Relay Works header leads to a large terminal-style introduction and a clearly labeled demonstration command. Three native command disclosures explain audit, repair and handoff services with useful inputs and expected deliverables. A numbered runbook describes the actual sequence a customer would discuss with the practice. The closing scope note points to the separate log composition. This is a service index with progressive detail, not a conventional sales hero followed by feature cards.
+A compact Relay Works header leads to a large terminal-style introduction and a clearly labeled demonstration command. Three native command disclosures explain audit, repair and handoff services with useful inputs and expected deliverables. A numbered runbook describes the actual sequence a customer would discuss with the practice. Each disclosure links to matching log entries, and the closing scope note points to the separate log composition. This is a service index with progressive detail, not a conventional sales hero followed by feature cards.
 
 ## Layout B
 
-Open with a snapshot heading and a plain date label. A narrow side panel summarizes the fictional run, while the wider column contains timestamped change and note entries. Real filter buttons switch between all entries, changes and notes; a live count reports the visible result. A native disclosure explains the sample data boundary. Finish with a return link and demonstration identity. Chronology and supporting panels replace the command-first service explanation used in A.
+Open with a snapshot heading and a plain date label. A narrow side panel summarizes the fictional run, while the wider column contains timestamped change and note entries. Real filter buttons and a local search narrow the entries; a status bar and live count report the visible result, and index links open the log pre-filtered. A native disclosure explains the sample data boundary. Finish with a return link and demonstration identity. Chronology and supporting panels replace the command-first service explanation used in A.
 
 ## Imagery
 
@@ -67,7 +67,7 @@ Replace fictional services and sample events with truthful project-specific info
 
 ## Avoid
 
-1. Do not add an inert input line that pretends to execute commands; links and disclosures must reveal their real behavior. 2. Do not use scanlines, glow or tiny text as a substitute for a readable technical hierarchy. 3. Do not label fictional snapshot values as live monitoring or allow color alone to encode event types.
+1. Do not add an inert input line that pretends to execute commands; links and disclosures must reveal their real behavior. 2. Do not use scanlines, glow or tiny text as a substitute for a readable technical hierarchy. 3. Do not label fictional snapshot values as live monitoring; statuses carry a text label, never colour alone.
 
 ## Closest styles
 
